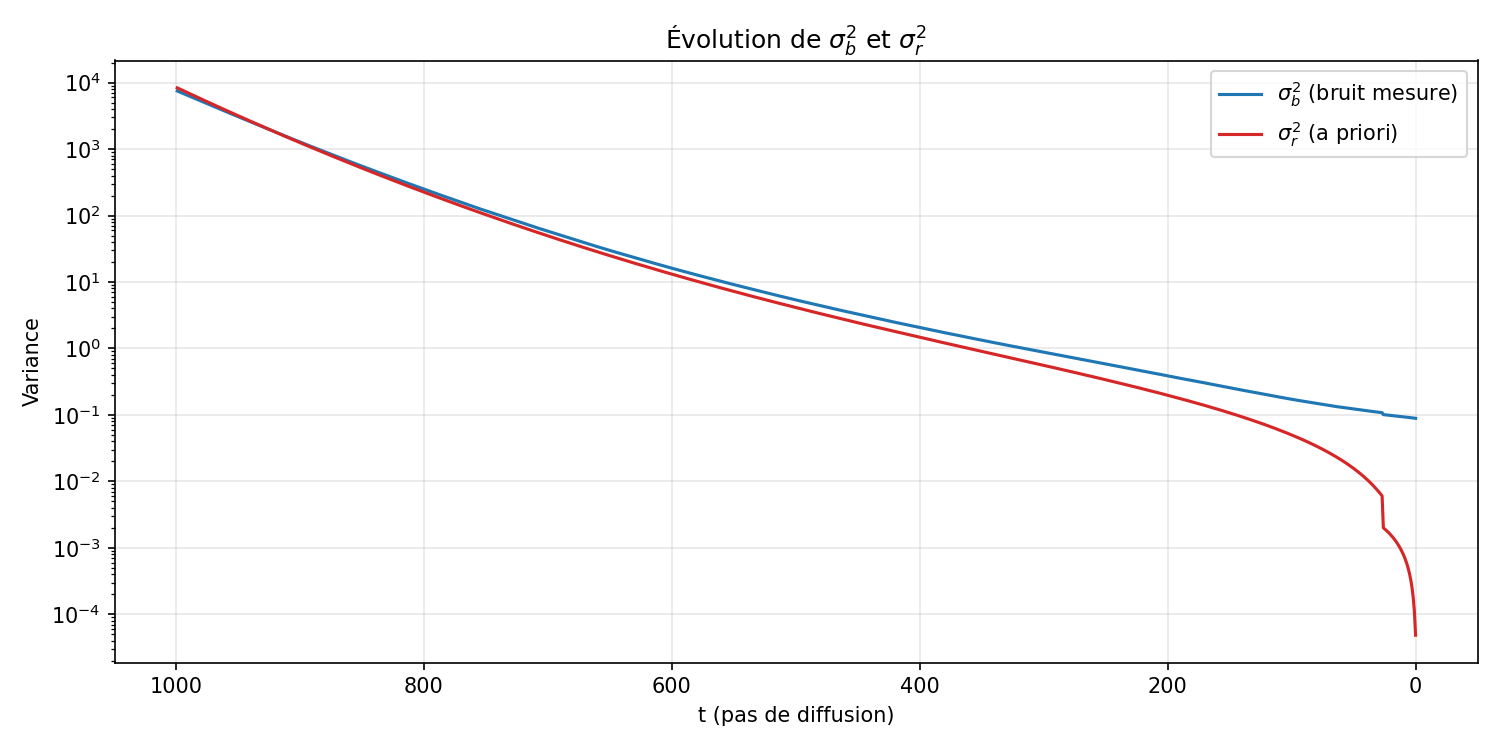
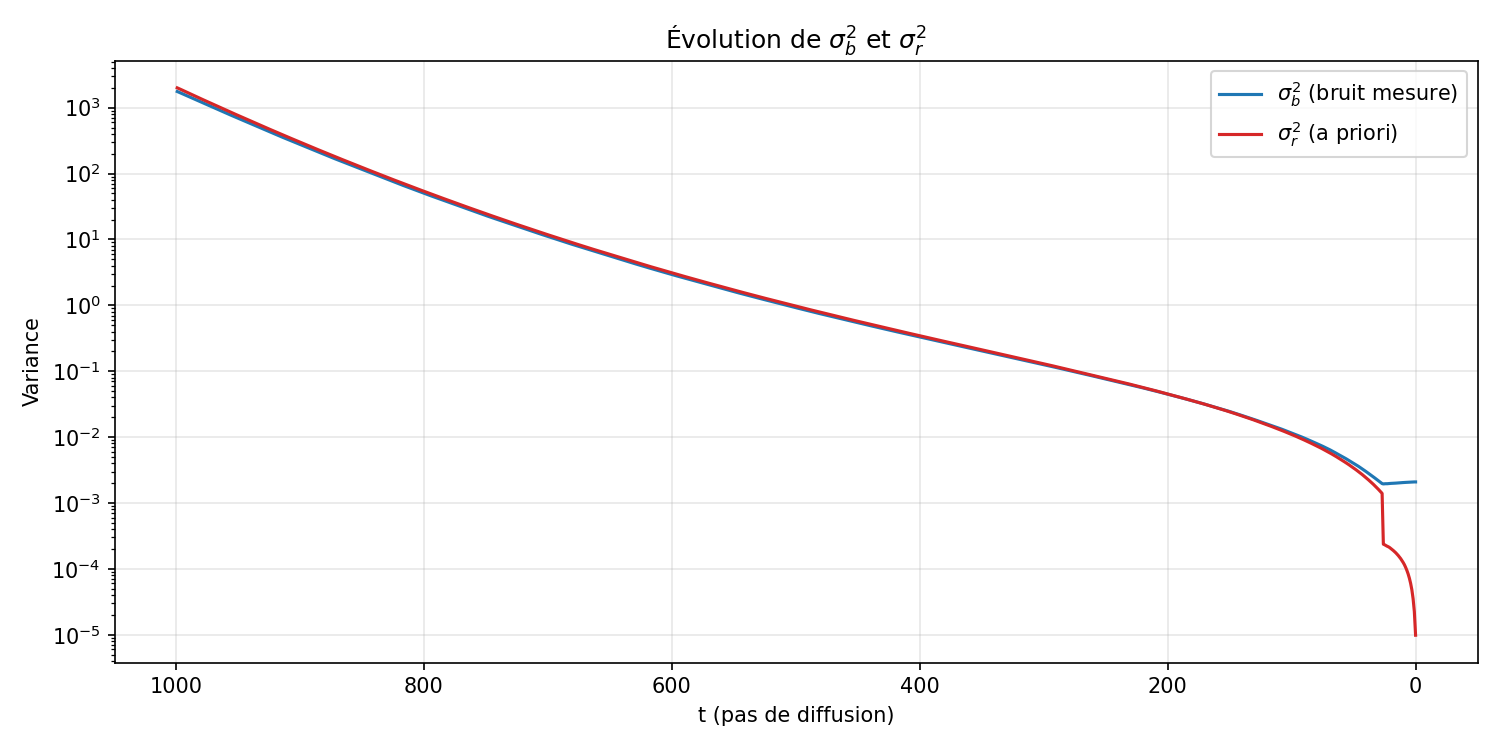
push qui marche

diff --git a/Codes/7-CLEAN_RUN/diffusion/Reverse.py b/Codes/7-CLEAN_RUN/diffusion/Reverse.py
@@ -57,7 +57,9 @@ def emg_vba_correction(x_t, xhat0, alpha_bar_t, y, op,
     if warm_start is not None:
         mu_init = warm_start['mu']
         # Sigma_init = warm_start['Sigma']
-        Sigma_init = torch.clamp(warm_start['Sigma'], min=1e-10, max=1e4)
+        
+        r2_t = (1.0 - alpha_bar_t) / max(alpha_bar_t, 1e-8)
+        Sigma_init = torch.full((n,), r2_t, device=x_t.device, dtype=x_t.dtype)
     else:
         mu_init = xhat0.clone()
         r2_t = (1.0 - alpha_bar_t) / max(alpha_bar_t, 1e-8)
